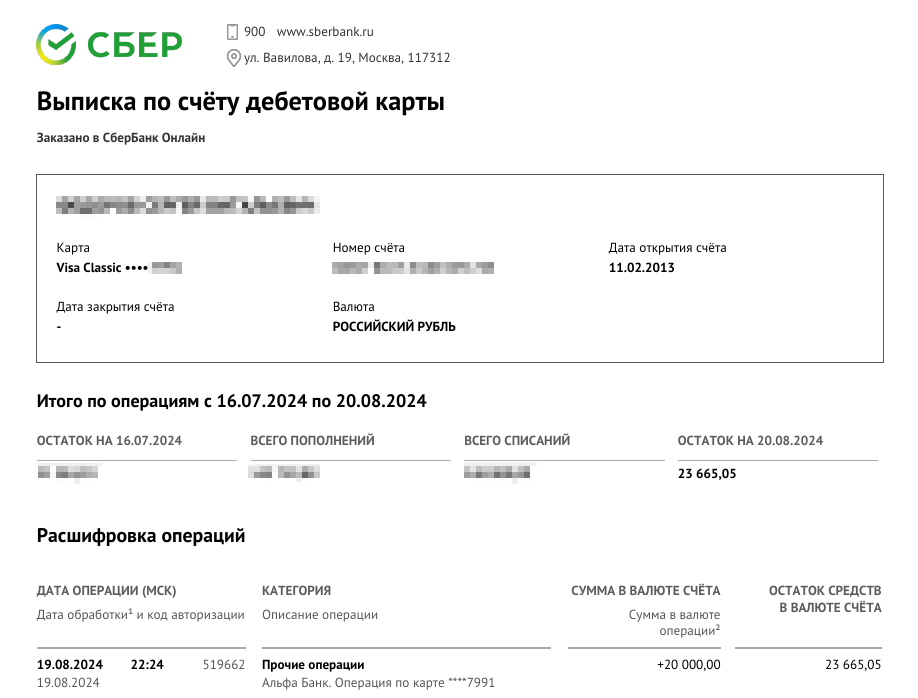
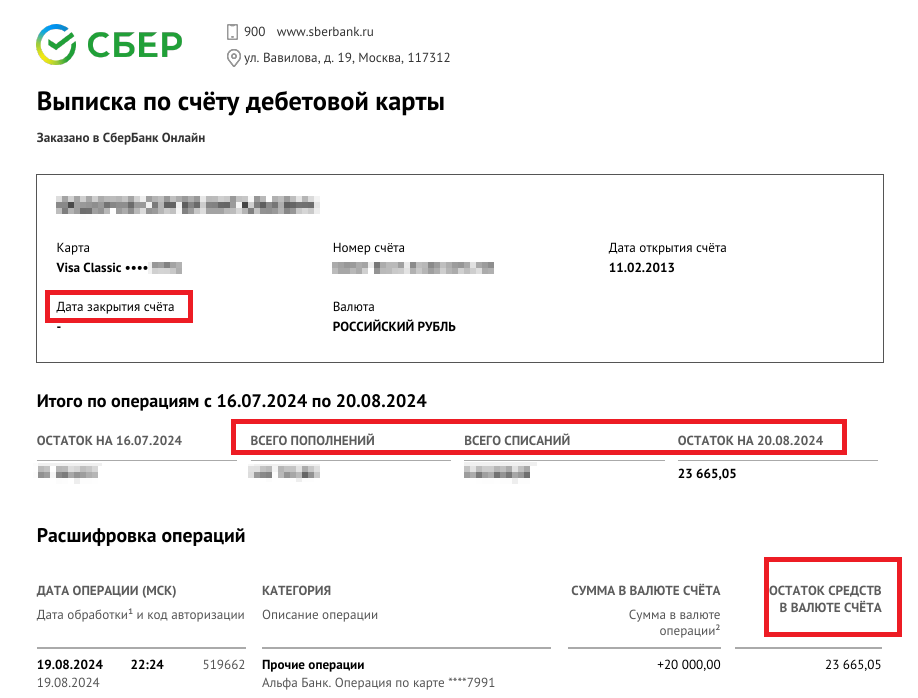
tests are added for SBER_DEBIT_2408.py. Some other improvements

Changed region(s): [[0.244, 0.6017, 0.9455, 0.6619], [0.8235, 0.7822, 1.0, 0.9327], [0.0305, 0.3911, 0.2135, 0.4814]]

diff --git a/core/extractor_SBER_DEBIT_2408.py b/core/extractor_SBER_DEBIT_2408.py
@@ -14,15 +14,20 @@ class SBER_DEBIT_2408(Extractor):
 
     def check_specific_signatures(self):
 
-        test1 = re.search(r'сбербанк', self.bank_text, re.IGNORECASE)
+        test_sberbank = re.search(r'сбербанк', self.bank_text, re.IGNORECASE)
         # print(f"{test1=}")
 
-        test2 = re.search(r'Выписка по счёту дебетовой карты', self.bank_text, re.IGNORECASE)
+        test_vipiska_po_schetu = re.search(r'Выписка по счёту дебетовой карты', self.bank_text, re.IGNORECASE)
         # print(f"{test2=}")
+        
+        test_data_zakritiya = re.search(r'Дата закрытия счёта', self.bank_text, re.IGNORECASE)
+        
+        
+        test_dya_proverki_podlinnosti = re.search(r'Для проверки подлинности документа', self.bank_text, re.IGNORECASE)
 
         test_ostatok_po_schetu = re.search(r'ОСТАТОК ПО СЧЁТУ', self.bank_text, re.IGNORECASE)
 
-        if (not test1  or not test2) or test_ostatok_po_schetu:
+        if not (test_sberbank  and test_vipiska_po_schetu and test_dya_proverki_podlinnosti) or test_ostatok_po_schetu:
             raise exceptions.InputFileStructureError("Не найдены паттерны, соответствующие выписке")
 
     def get_period_balance(self)->float:
@@ -49,8 +54,8 @@ class SBER_DEBIT_2408(Extractor):
 
         line_parts = res.group(1).split('\t')
 
-        summa_spisaniy = line_parts[1]
-        summa_popolneniy = line_parts[2]
+        summa_spisaniy = line_parts[2]
+        summa_popolneniy = line_parts[1]
 
         # print('summa_spisaniy ='+summa_spisaniy)
         # print('summa_popolneniy =' + summa_popolneniy)
@@ -157,9 +162,9 @@ class SBER_DEBIT_2408(Extractor):
         lines = entry.split('\n')
         lines = list(filter(None, lines))
 
-        if len(lines) < 2 or len(lines) > 3:
+        if len(lines) < 2 or len(lines) > 4:
             raise exceptions.InputFileStructureError(
-                "entry is expected to have from 2 to 3 lines\n" + str(entry))
+                "entry is expected to have from 2 to 4 lines\n" + str(entry))
 
         result = {}
         # ************** looking at the 1st line
@@ -245,6 +250,11 @@ class SBER_DEBIT_2408(Extractor):
         # ************** looking at the 3rd line, if present
         if len(lines) == 3:
             line_parts = split_Sberbank_line(lines[2])
+            result['description'] = result['description'] + ' ' + line_parts[0]
+
+        # ************** looking at the 4th line, if present
+        if len(lines) == 4:
+            line_parts = split_Sberbank_line(lines[3])
             result['description'] = result['description'] + ' ' + line_parts[0]
 
         # print(result)

diff --git a/core/sberbankPDF2Excel_test.py b/core/sberbankPDF2Excel_test.py
@@ -82,3 +82,6 @@ def test_correctly_converts_SBER_PAYMENT_2407__MIR_20240803__20240101_20240801_i
     
 def test_correctly_converts_SBER_SAVING2407_issue47():
     sberbankPDF2Excel(no_github_module.SBER_SAVING_2407_issue47)
+    
+def test_correctly_converts_SBER_DEBIT_2408_issue_48():
+    sberbankPDF2Excel(no_github_module.SBER_DEBIT_2408_issue_48)
